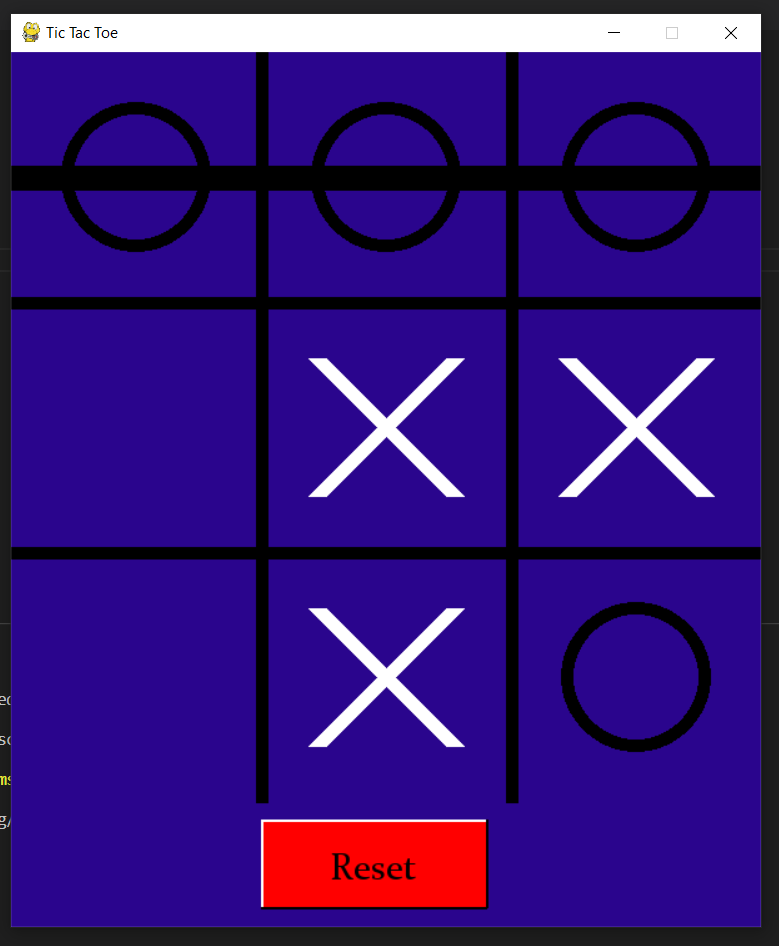
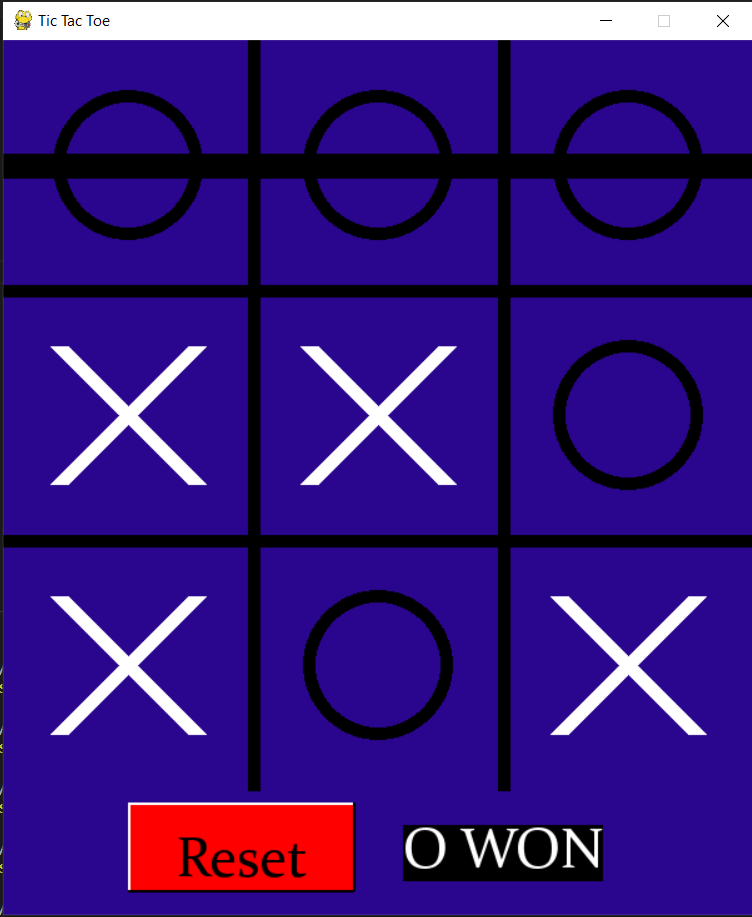
code and output update

diff --git a/Python - Lab Cycles/Python - Lab Cycle 3/Question - 1/lab_cycle_3_q1.py b/Python - Lab Cycles/Python - Lab Cycle 3/Question - 1/lab_cycle_3_q1.py
@@ -4,22 +4,16 @@ from pygame.locals import *
 
 pygame.init()
 
-font = pygame.font.SysFont('Constantia', 30)
+font = pygame.font.SysFont('Constantia', 45)
 
 #define colours
-bg = (204, 102, 0)
 red = (255, 0, 0)
 black = (0, 0, 0)
 white = (255, 255, 255)
 
-#define global variable
-clicked = False
-
 class button():
 	#colours for button and text
 	button_col = (255, 0, 0)
-	hover_col = (75, 225, 255)
-	click_col = (255, 0, 0)
 	text_col = black
 	width = 180
 	height = 70
@@ -30,41 +24,17 @@ class button():
 		self.text = text
 
 	def draw_button(self):
-
-		global clicked
-		action = False
-
-		#get mouse position
-		pos = pygame.mouse.get_pos()
-
-		#create pygame Rect object for the button
 		button_rect = Rect(self.x, self.y, self.width, self.height)
-		
-		#check mouseover and clicked conditions
-		if button_rect.collidepoint(pos):
-			if pygame.mouse.get_pressed()[0] == 1:
-				clicked = True
-				pygame.draw.rect(screen, self.click_col, button_rect)
-			elif pygame.mouse.get_pressed()[0] == 0 and clicked == True:
-				clicked = False
-				action = True
-			else:
-				pygame.draw.rect(screen, self.hover_col, button_rect)
-		else:
-			pygame.draw.rect(screen, self.button_col, button_rect)
-		
+		pygame.draw.rect(screen, self.button_col, button_rect)		
 		#add shading to button
 		pygame.draw.line(screen, white, (self.x, self.y), (self.x + self.width, self.y), 2)
 		pygame.draw.line(screen, white, (self.x, self.y), (self.x, self.y + self.height), 2)
 		pygame.draw.line(screen, black, (self.x, self.y + self.height), (self.x + self.width, self.y + self.height), 2)
 		pygame.draw.line(screen, black, (self.x + self.width, self.y), (self.x + self.width, self.y + self.height), 2)
-
 		#add text to button
 		text_img = font.render(self.text, True, self.text_col)
 		text_len = text_img.get_width()
 		screen.blit(text_img, (self.x + int(self.width / 2) - int(text_len / 2), self.y + 25))
-		return action
-
 
 WIDTH = 600
 boardHeight = 600
@@ -87,7 +57,6 @@ screen.fill(BG_COLOR)
 #board
 board = np.zeros((BOARD_ROWS,BOARD_COLUMNS))
 
-#pygame.draw.line(screen,black,(20,20),(580,580),15)
 def draw_lines():
   #horizontal - lines
   pygame.draw.line(screen,BLACK,(0,200),(600,200),LINE_WIDTH)
@@ -152,13 +121,6 @@ def restart():
     for col in range(BOARD_COLUMNS):
       board[row][col]=0
 
-# mark_square(0,0,1)
-# print(board)
-# mark_square(1,1,2)
-# print(board)
-# print(available_square(0,0))
-# print(available_square(1,1))
-
 def draw_figures():
   for row in range(BOARD_ROWS):
     for col in range(BOARD_COLUMNS):
@@ -173,8 +135,16 @@ draw_lines()
 game_over = False
 player = 1
 
-resetButton = button(200,614,'Reset')
+#reset button and won display text.
+resetButton = button(100,610,'Reset')
 resetButton.draw_button()
+
+text1 = font.render('O WON', True, white,BLACK)
+text2 = font.render('X WON', True, white,BLACK)
+textRect1 = text1.get_rect()
+textRect1.center = (400,650)
+textRect2 = text2.get_rect()
+textRect2.center = (400,650)
 
 #main loop
 while True:
@@ -192,11 +162,13 @@ while True:
             mark_square(clicked_row,clicked_col,1)
             if check_win(player):
               game_over = True
+              screen.blit(text1, textRect1)
             player = 2
           elif player == 2:
             mark_square(clicked_row,clicked_col,2)
             if check_win(player):
               game_over = True
+              screen.blit(text2, textRect2)
             player = 1
           draw_figures()
        else: 
